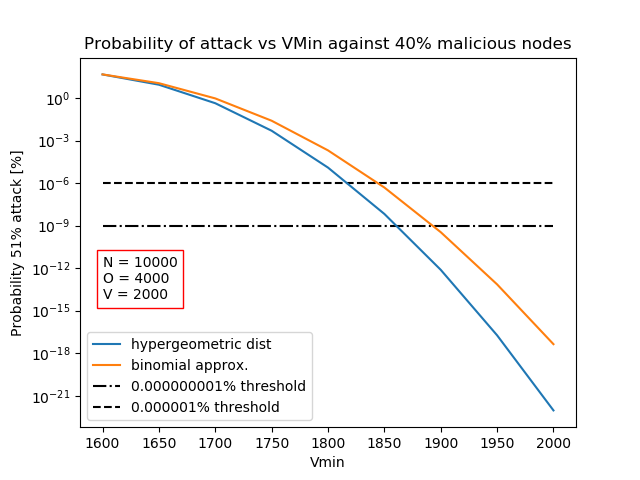
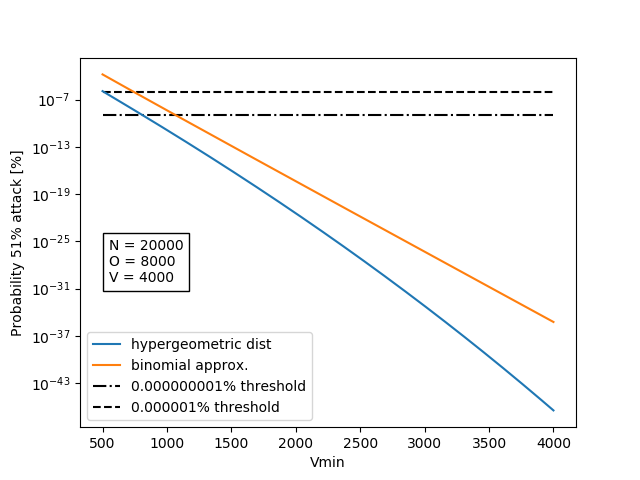
Fix math mistake with relation to VMin_of_V

diff --git a/notebooks/probabilityOfAttack/VMin_to_achieve_10^9.py b/notebooks/probabilityOfAttack/VMin_to_achieve_10^9.py
@@ -5,15 +5,12 @@ import numpy as np
 import os
 import math
 from cycler import cycler
-#%matplotlib inline  
-#import matplotlib as mpl
-#mpl.use('Agg')
 import matplotlib.pyplot as plt
 import matplotlib.cm as cm
 from matplotlib.ticker import FormatStrFormatter
 
 #N: total number of nodes in pool (validators)
-#V: total number of working validators nodes (workers) 
+#V: total number of working validators nodes (workers)
 #O: total number of malicious nodes in pool (malicious validators)
 #p: total number of malicious nodes selected for validation (malicious workers)
 #Vmin: mininim number of validating nodes (minimum hashes collected by a worker for a valid ratio r_i = m/V_i where V_min <= V_i <= V)
@@ -24,9 +21,9 @@ from matplotlib.ticker import FormatStrFormatter
 def plot_ratio_VMinOverN(rO,rN,thre):
         pH=[]
         for rNi in rN: #Will stay the same as we want x axis to be over N
-            O=rNi*rO #Will stay the same as we want to show vairying mallicious nodes 
+            O=rNi*rO #Will stay the same as we want to show vairying mallicious nodes
             print("N, O: ",rNi,", ",O,". Varying V to find proba ~ $10^-9$") #Stays the same
-            V = rNi*0.2 #Set the V to N ratio 
+            V = rNi*0.2 #Set the V to N ratio
             Vmin = math.floor(0.001*V)
             proba_thre = 1
             rVi = Vmin
@@ -34,31 +31,30 @@ def plot_ratio_VMinOverN(rO,rN,thre):
             Vbin = 10
             VMin_thre = 0
             while proba_thre > thre:
-                p = math.floor(rVi/2) + 1
+                p = math.floor(rVi/2) 
                 proba_thre = hypergeom.sf(p, rNi, O, rVi)
                 VMin_thre = rVi
                 #print(rVi,", prob --> ",proba_thre)
                 rVi = rVi + Vbin
-            #print("--> ",V_thre/N) 
+            #print("--> ",V_thre/N)
             pH.append(VMin_thre/V) #Needs to be VMin_thre / V
         return (pH)
 
 
 proba_thre = 0.000000001
 rangeN = range(15000,100000,1000) #Will stay the same as this determines the range of N
-rO=0.2 #Stays the same 
-p1VMinoN_1 = plot_ratio_VMinOverN(rO,rangeN,proba_thre) #Stays the same 
-rO=0.3 #Stays the same 
-p1VMinoN_2 = plot_ratio_VMinOverN(rO,rangeN,proba_thre) #Stays the same 
-rO=0.4 #Stays the same 
-p1VMinoN_3 = plot_ratio_VMinOverN(rO,rangeN,proba_thre) #Stays the same 
-rO=0.45 #Stays the same 
-p1VMinoN_4 = plot_ratio_VMinOverN(rO,rangeN,proba_thre) #Stays the same 
-plt.plot(rangeN,p1VMinoN_1, label='20% malicious nodes') #Stays the same
-plt.plot(rangeN,p1VMinoN_2, label='30% malicious nodes') #Stays the same
-plt.plot(rangeN,p1VMinoN_3, label='40% malicious nodes') #Stays the same
-plt.plot(rangeN,p1VMinoN_4, label='45% malicious nodes') #Stays the same
-plt.title('VMin/V threshold needed for a probability of attack < $10^{-9}$')
+rO=0.2
+p1VMinoN_1 = plot_ratio_VMinOverN(rO,rangeN,proba_thre)
+rO=0.3
+p1VMinoN_2 = plot_ratio_VMinOverN(rO,rangeN,proba_thre) 
+rO=0.4
+p1VMinoN_3 = plot_ratio_VMinOverN(rO,rangeN,proba_thre)
+rO=0.45
+p1VMinoN_4 = plot_ratio_VMinOverN(rO,rangeN,proba_thre) 
+plt.plot(rangeN,p1VMinoN_1, label='20% malicious nodes')
+plt.plot(rangeN,p1VMinoN_2, label='30% malicious nodes')
+plt.plot(rangeN,p1VMinoN_3, label='40% malicious nodes')
+plt.plot(rangeN,p1VMinoN_4, label='45% malicious nodes')
 plt.xlabel('N (total number of nodes)')
 plt.ylabel('Ratio of VMin/Min for prob < $10^{-9}$')
 plt.legend(loc='center right')

diff --git a/notebooks/probabilityOfAttack/Validation_pool_to_achieve_10^-9.py b/notebooks/probabilityOfAttack/Validation_pool_to_achieve_10^-9.py
@@ -5,9 +5,6 @@ import numpy as np
 import os
 import math
 from cycler import cycler
-#%matplotlib inline  
-#import matplotlib as mpl
-#mpl.use('Agg')
 import matplotlib.pyplot as plt
 import matplotlib.cm as cm
 from matplotlib.ticker import FormatStrFormatter
@@ -23,10 +20,10 @@ from matplotlib.ticker import FormatStrFormatter
 
 def plot_ratio_VoverN(rO,rN,thre):
         pH=[]
-        for rNi in rN: #For each rangeN in range 5k - 100k
-            O=rNi*rO #O = Each range x the ratio of bad nodes specified 
-            print("N, O: ",rNi,", ",O,". Varying V to find proba ~ 10-9")
-            Vmin = math.floor(0.001*rNi) #Minumum value of V is 0.001 of the value of the range interval 
+        for Ni in rN: #For each rangeN in range 5k - 100k
+            O=Ni*rO #O = Each range x the ratio of bad nodes specified 
+            print("N, O: ",Ni,", ",O,". Varying V to find proba ~ 10-9")
+            Vmin = math.floor(0.001*Ni) #Minumum value of V is 0.001 of the value of the range interval 
             
             proba_thre = 1 
             rVi = Vmin #rVi is set to 0.001 of the value of the range interval 
@@ -34,12 +31,12 @@ def plot_ratio_VoverN(rO,rN,thre):
             V_thre = 0 
             while proba_thre > thre: #while value set on l32 > value set on l52 ...
                 p = math.floor(rVi/2) + 1 #math.floor rounds to the nearest value
-                proba_thre = hypergeom.sf(p, rNi, O, rVi)
+                proba_thre = hypergeom.sf(p, Ni, O, rVi)
                 V_thre = rVi
                 #print(rVi,", prob --> ",proba_thre)
                 rVi = rVi + Vbin
             #print("--> ",V_thre/N) 
-            pH.append(V_thre/rNi)
+            pH.append(V_thre/Ni)
         return (pH)
 
 proba_thre = 0.000000001
@@ -56,7 +53,6 @@ plt.plot(rangeN,p1VoN_1, label='20% malicious nodes')
 plt.plot(rangeN,p1VoN_2, label='30% malicious nodes')
 plt.plot(rangeN,p1VoN_3, label='40% malicious nodes')
 plt.plot(rangeN,p1VoN_4, label='45% malicious nodes')
-plt.title('V/N threshold needed for a probability of attack < $10^{-9}$')
 plt.xlabel('N (total number of nodes)')
 plt.ylabel('Ratio of V/N for prob < $10^{-9}$')
 plt.legend(loc='center right')

diff --git a/notebooks/probabilityOfAttack/VMin_of_V.py b/notebooks/probabilityOfAttack/VMin_of_V.py
@@ -5,9 +5,6 @@ import numpy as np
 import os
 import math
 from cycler import cycler
-#%matplotlib inline  
-#import matplotlib as mpl
-#mpl.use('Agg')
 import matplotlib.pyplot as plt
 import matplotlib.cm as cm
 from matplotlib.ticker import FormatStrFormatter
@@ -19,28 +16,25 @@ from matplotlib.ticker import FormatStrFormatter
 #Vmin: mininim number of validating nodes (minimum hashes collected by a worker for a valid ratio r_i = m/V_i where V_min <= V_i <= V)
 
 #This generates a graph demostrating the minimum number (Vmin) of nodes that report the correct delta needed to generate acceptable security levels. 
-#
+
 
 def plot_cummulative_over_rangeVmin(rO,N,V,rVmin):
         pH=[]
         pB=[]
         O=N*rO
-        #print("N, O, V : ",N,", ",O,", ",V,",. varying Vmin:")
     
         for rVi in rVmin:
             pmin = math.floor(rVi/2) + 1
-            pH.append(100*hypergeom.sf(pmin, N, O, V))
+            pH.append(hypergeom.sf(pmin, N, O, rVi))
             print(O," --> ", hypergeom.sf(pmin, N, O, V))
-            pB.append(100*binom.sf(pmin,V,rO))
+            pB.append(100*binom.sf(pmin,rVi,rO))
         return (pH,pB)
 
-N = 10000
-V = 2000
-rR = [0.1,0.2,0.3,0.4,0.45]
+N = 20000
+V = 4000
 rR1 = 0.4
-
-Vmin=1600
-rVmin = range(Vmin, V+1, 50)
+Vmin=500
+rVmin = range(Vmin, V+1, 10)
 O = math.floor(rR1*N)
 p1_Vmin = ""
 textstr = '\n'.join((
@@ -58,6 +52,5 @@ plt.ylabel('Probability 51% attack [%]')
 plt.hlines(0.000000001, Vmin, V, colors='k', linestyles='-.', label='0.000000001% threshold')
 plt.hlines(0.000001, Vmin, V, colors='k', linestyles='dashed', label='0.000001% threshold')
 plt.legend(loc='lower left')
-plt.title('Probability of attack vs VMin against 40% malicious nodes')
-plt.text(Vmin,y_text, textstr, fontsize=10, position=(1600, 6.737358984570953e-15),  bbox=dict(facecolor='none', edgecolor='red'))
+plt.text(Vmin,y_text, textstr, fontsize=10, position=(550, 6.737358984570953e-31),  bbox=dict(facecolor='none', edgecolor='black'))
 plt.savefig('Graphs/VMin.png')

diff --git a/notebooks/probabilityOfAttack/Validation_pool_to_achieve_10^-6.py b/notebooks/probabilityOfAttack/Validation_pool_to_achieve_10^-6.py
@@ -5,9 +5,6 @@ import numpy as np
 import os
 import math
 from cycler import cycler
-#%matplotlib inline  
-#import matplotlib as mpl
-#mpl.use('Agg')
 import matplotlib.pyplot as plt
 import matplotlib.cm as cm
 from matplotlib.ticker import FormatStrFormatter
@@ -25,10 +22,8 @@ def plot_ratio_VoverN(rO,rN,thre):
         pH=[]
         for rNi in rN:
             O=rNi*rO
-            print("N, O: ",rNi,", ",O,". Varying V to find proba ~ $10^-6$")
+            #print("N, O: ",rNi,", ",O,". Varying V to find proba ~ $10^-6$")
             Vmin = math.floor(0.001*rNi)
-            Vmax = math.floor(0.2*rNi)
-            rangeV = range(Vmin,Vmax,100)
             proba_thre = 1
             rVi = Vmin
             Vbin = 10
@@ -36,8 +31,9 @@ def plot_ratio_VoverN(rO,rN,thre):
             while proba_thre > thre:
                 p = math.floor(rVi/2) + 1
                 proba_thre = hypergeom.sf(p, rNi, O, rVi)
+
                 V_thre = rVi
-                #print(rVi,", prob --> ",proba_thre)
+                print(rVi,", prob --> ",proba_thre)
                 rVi = rVi + Vbin
             #print("--> ",V_thre/N) 
             pH.append(V_thre/rNi)
@@ -58,7 +54,6 @@ plt.plot(rangeN,p1VoN_1, label='20% malicious nodes')
 plt.plot(rangeN,p1VoN_2, label='30% malicious nodes')
 plt.plot(rangeN,p1VoN_3, label='40% malicious nodes')
 plt.plot(rangeN,p1VoN_4, label='45% malicious nodes')
-plt.title('V/N threshold needed for a probability of attack < $10^{-6}$')
 plt.xlabel('N (total number of nodes)')
 plt.ylabel('Ratio of V/N for prob < $10^{-6}$')
 plt.legend(loc='center right')

diff --git a/notebooks/probabilityOfAttack/ratio_of_validation_pool_size.py b/notebooks/probabilityOfAttack/ratio_of_validation_pool_size.py
@@ -5,13 +5,10 @@ import numpy as np
 import os
 import math
 from cycler import cycler
-#%matplotlib inline  
-#import matplotlib as mpl
-#mpl.use('Agg')
 import matplotlib.pyplot as plt
 import matplotlib.cm as cm
 from matplotlib.ticker import FormatStrFormatter
-#np.set_printoptions(threshold=np.nan)
+
 
 #N: total number of nodes in pool (validators)
 #V: total number of working validators nodes (workers) 
@@ -34,9 +31,6 @@ def plot_cummulative_over_rangeV(rO,N,rV):
 
 N = 10000
 V = 2000
-rR = [0.1,0.2,0.3,0.4,0.45]
-Vmin = 500
-
 rR1 = 0.4
 O = math.floor(rR1*N)
 Vmin=500
@@ -50,12 +44,10 @@ plt.xlabel('V')
 plt.ylabel('Probability 51% attack [%]')
 plt.hlines(0.000001, Vmin, V, colors='k', linestyles='dashed', label='0.00001% threshold')
 plt.hlines(0.000000001, Vmin, V, colors='k', linestyles='-.', label='0.000000001% threshold')
-plt.title('Probability of attack with 40% bad nodes and vairying \\ no. of workers')
 plt.legend(loc='lower left')
-
 textstr = '\n'.join((
     r'N = %.d' % (N, ),
     r'O = %.d' % (O, ),))
 y_text = 1000000*min(p1_V)
-plt.text(Vmin,y_text, textstr, fontsize=10)
+plt.text(Vmin,y_text, textstr, fontsize=10,bbox=dict(facecolor='none', edgecolor='black'))
 plt.savefig('Graphs/variable_V.png')

diff --git a/notebooks/probabilityOfAttack/ratio_of_malicious_nodes.py b/notebooks/probabilityOfAttack/ratio_of_malicious_nodes.py
@@ -5,13 +5,9 @@ import numpy as np
 import os
 import math
 from cycler import cycler
-#%matplotlib inline  
-#import matplotlib as mpl
-#mpl.use('Agg')
 import matplotlib.pyplot as plt
 import matplotlib.cm as cm
 from matplotlib.ticker import FormatStrFormatter
-#np.set_printoptions(threshold=np.nan)
 
 #N: total number of nodes in pool (validators)
 #V: total number of working validators nodes (workers) 
@@ -36,7 +32,6 @@ def plot_cummulative_over_rangeO(rR,N,V):
 N = 10000
 V = 2000
 rR = [0.2,0.25,0.3,0.35,0.4,0.45,0.5]
-Vmin = 500
 #Plot for {O}
 (p1_O,p2_O) = plot_cummulative_over_rangeO(rR,N,V)
 plt.plot(rR,p1_O, label='hypergeometric dist')
@@ -44,7 +39,6 @@ plt.plot(rR, p2_O, label = 'binomial approx.')
 plt.yscale('log')
 plt.xlabel('Fraction of malicious nodes (O) in validation pool set N')
 plt.ylabel('Probability 51% attack')
-#plt.title('Probability of attack for ratios of total malicious nodes')
 plt.hlines(0.000001, 0.2, 0.5, colors='k', linestyles='dashed', label='0.00001% threshold')
 plt.hlines(0.000000001, 0.2, 0.5, colors='k', linestyles='-.', label='0.000000001% threshold')
 plt.legend(loc='center right')

diff --git a/notebooks/probabilityOfAttack/VMin_to_achieve_10^6.py b/notebooks/probabilityOfAttack/VMin_to_achieve_10^6.py
@@ -5,9 +5,6 @@ import numpy as np
 import os
 import math
 from cycler import cycler
-#%matplotlib inline  
-#import matplotlib as mpl
-#mpl.use('Agg')
 import matplotlib.pyplot as plt
 import matplotlib.cm as cm
 from matplotlib.ticker import FormatStrFormatter
@@ -58,7 +55,6 @@ plt.plot(rangeN,p1VMinoN_1, label='20% malicious nodes')
 plt.plot(rangeN,p1VMinoN_2, label='30% malicious nodes') 
 plt.plot(rangeN,p1VMinoN_3, label='40% malicious nodes') 
 plt.plot(rangeN,p1VMinoN_4, label='45% malicious nodes') 
-plt.title('VMin/V threshold needed for a probability of attack < $10^{-6}$')
 plt.xlabel('N (total number of nodes)')
 plt.ylabel('Ratio of VMin/V for prob < $10^{-6}$')
 plt.legend(loc='center right')
